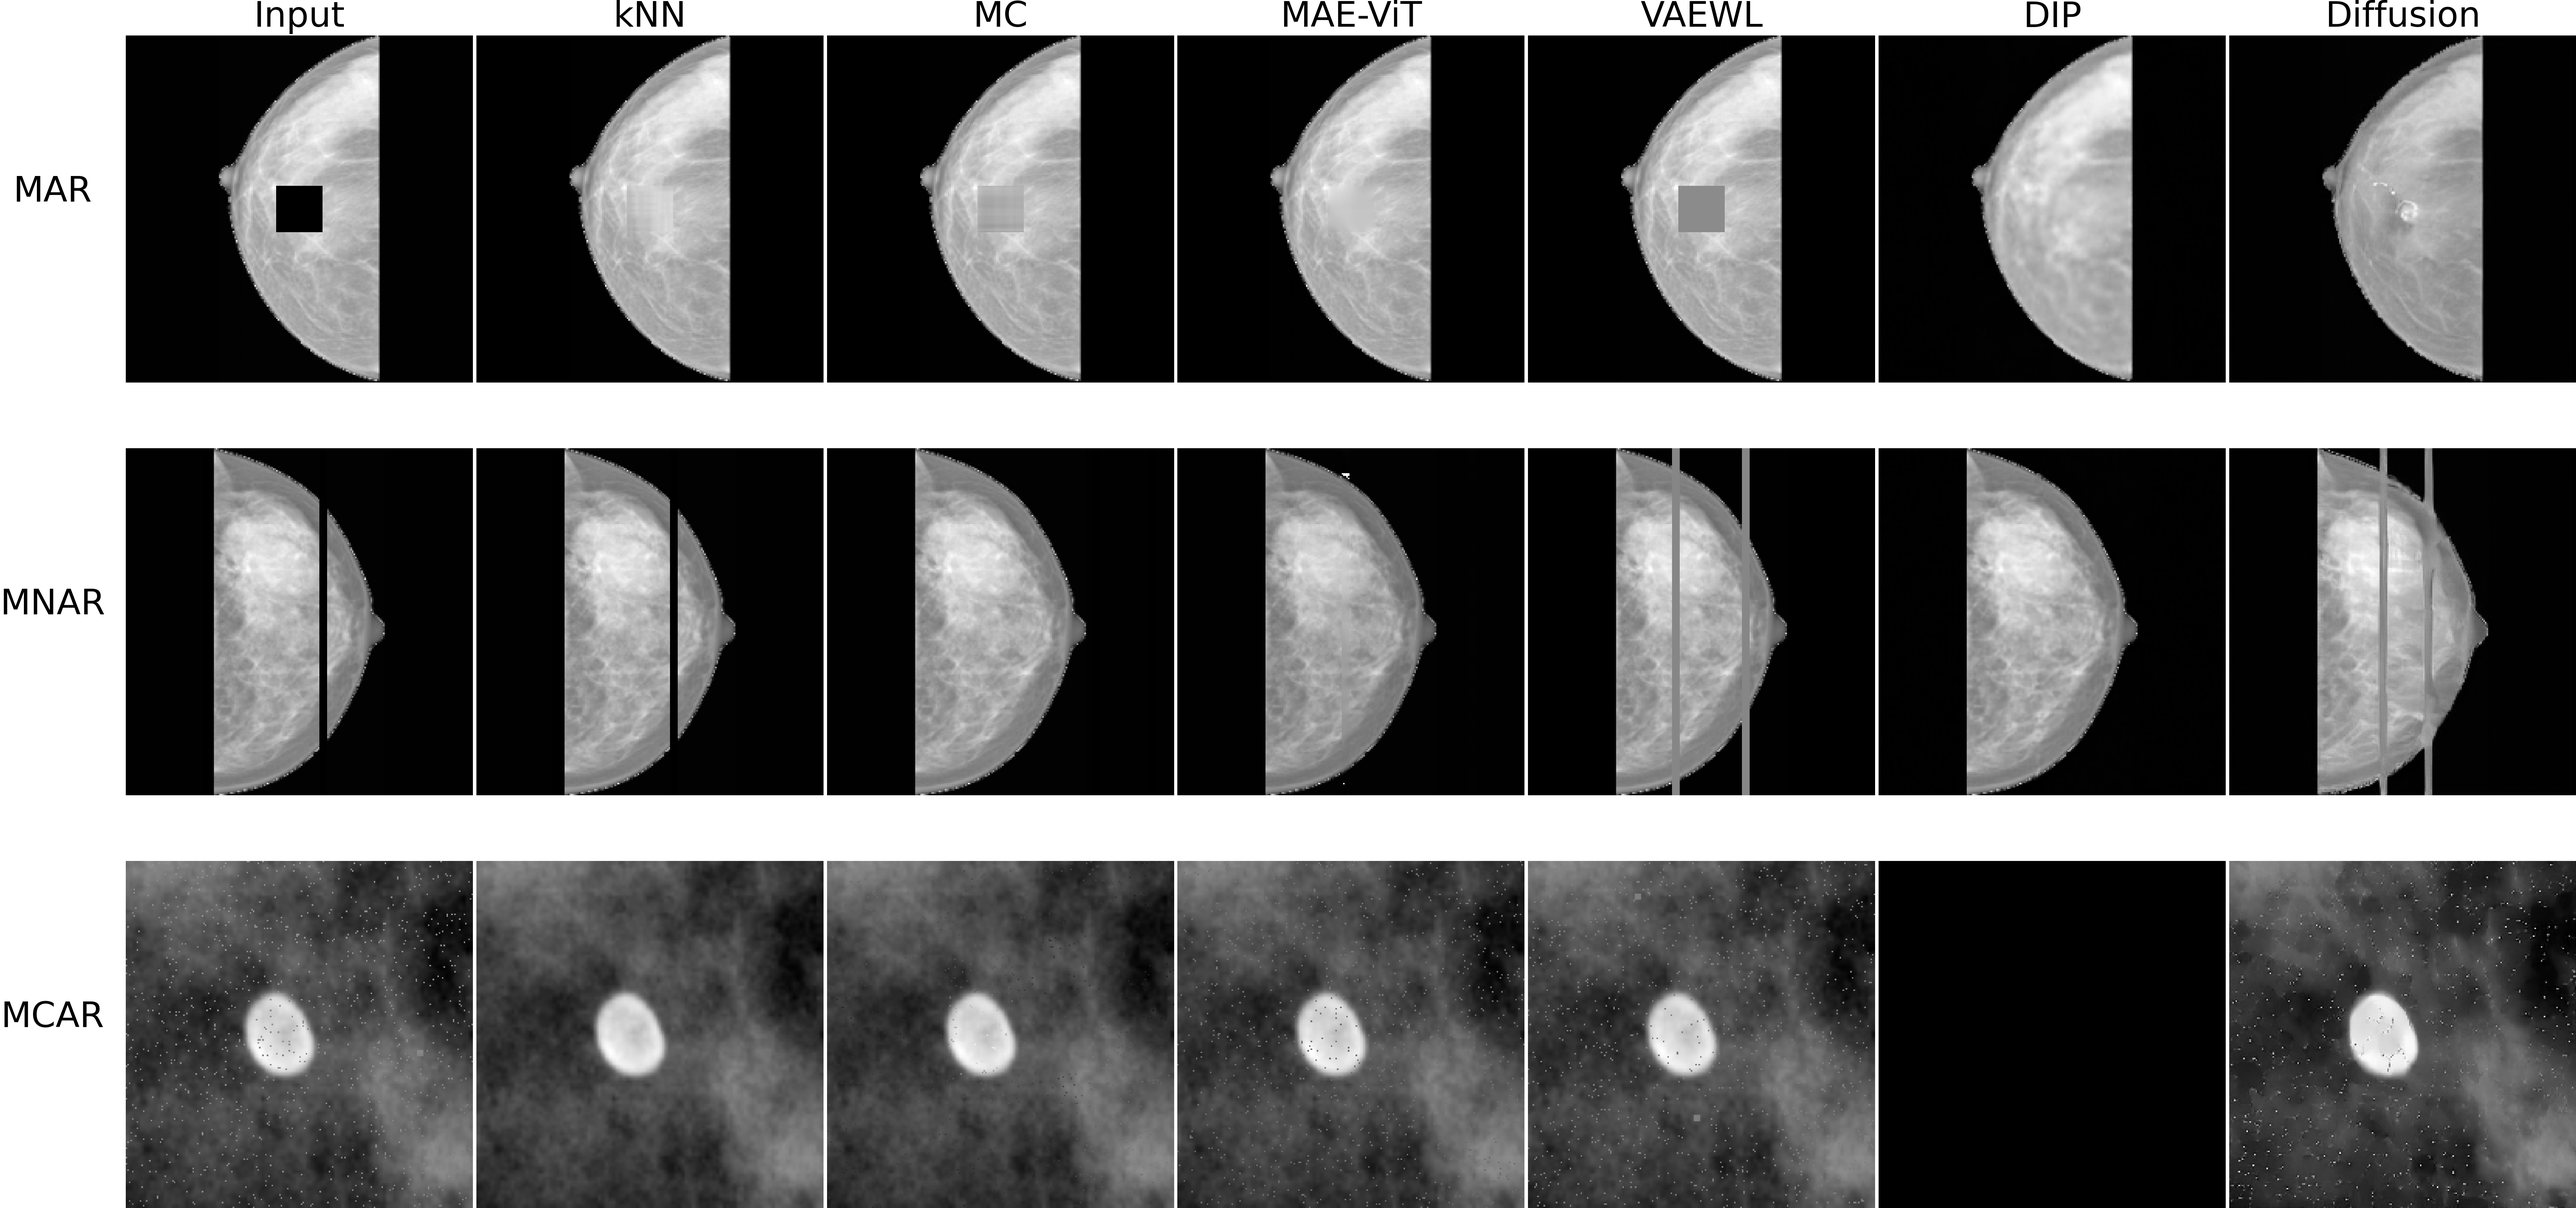
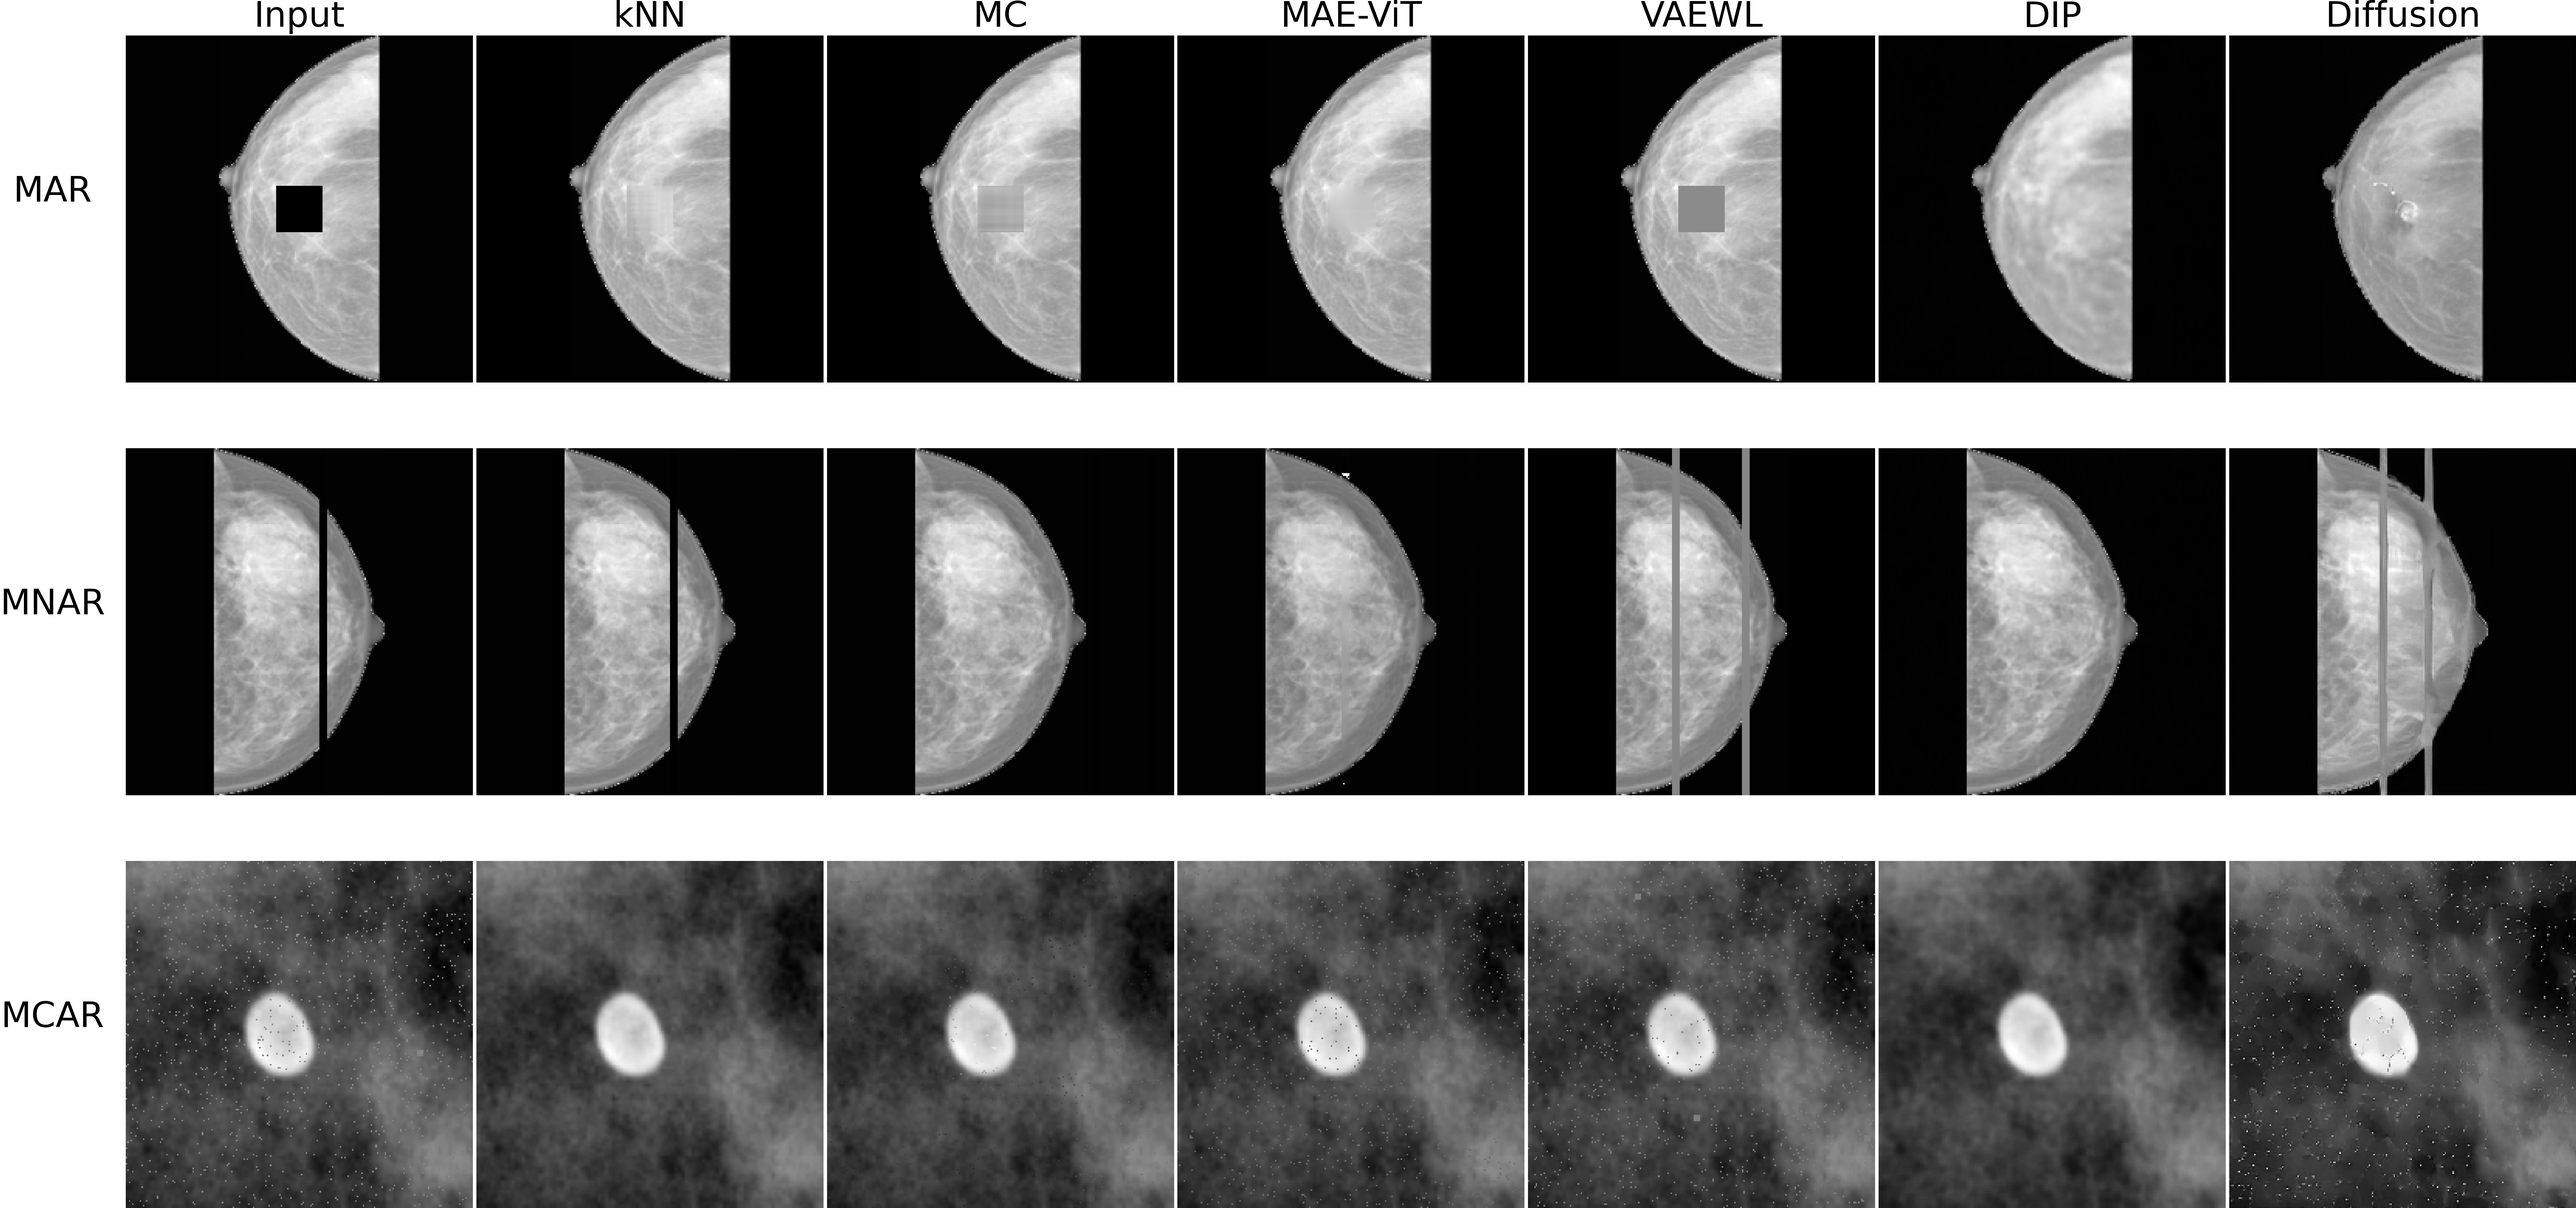
update: READM.md

Changed region(s): [[0.7184, 0.7156, 0.8745, 1.0]]

diff --git a/README.md b/README.md
@@ -46,6 +46,10 @@ codes/aux_codes.py
 
 To promote reproducibility and support further research in mechanism-aware image inpainting, we introduce MedInpainter, an open-source framework designed for mammographic imaging.
 
+<p align="center">
+  <img src="paper/medinpainter.png" width="600" title="MedInpainter Interface">
+</p>
+
 The framework provides:
 - Mapping to missingness mechanisms (MCAR, MAR, MNAR)
 - Standardized and reproducible evaluation protocols
